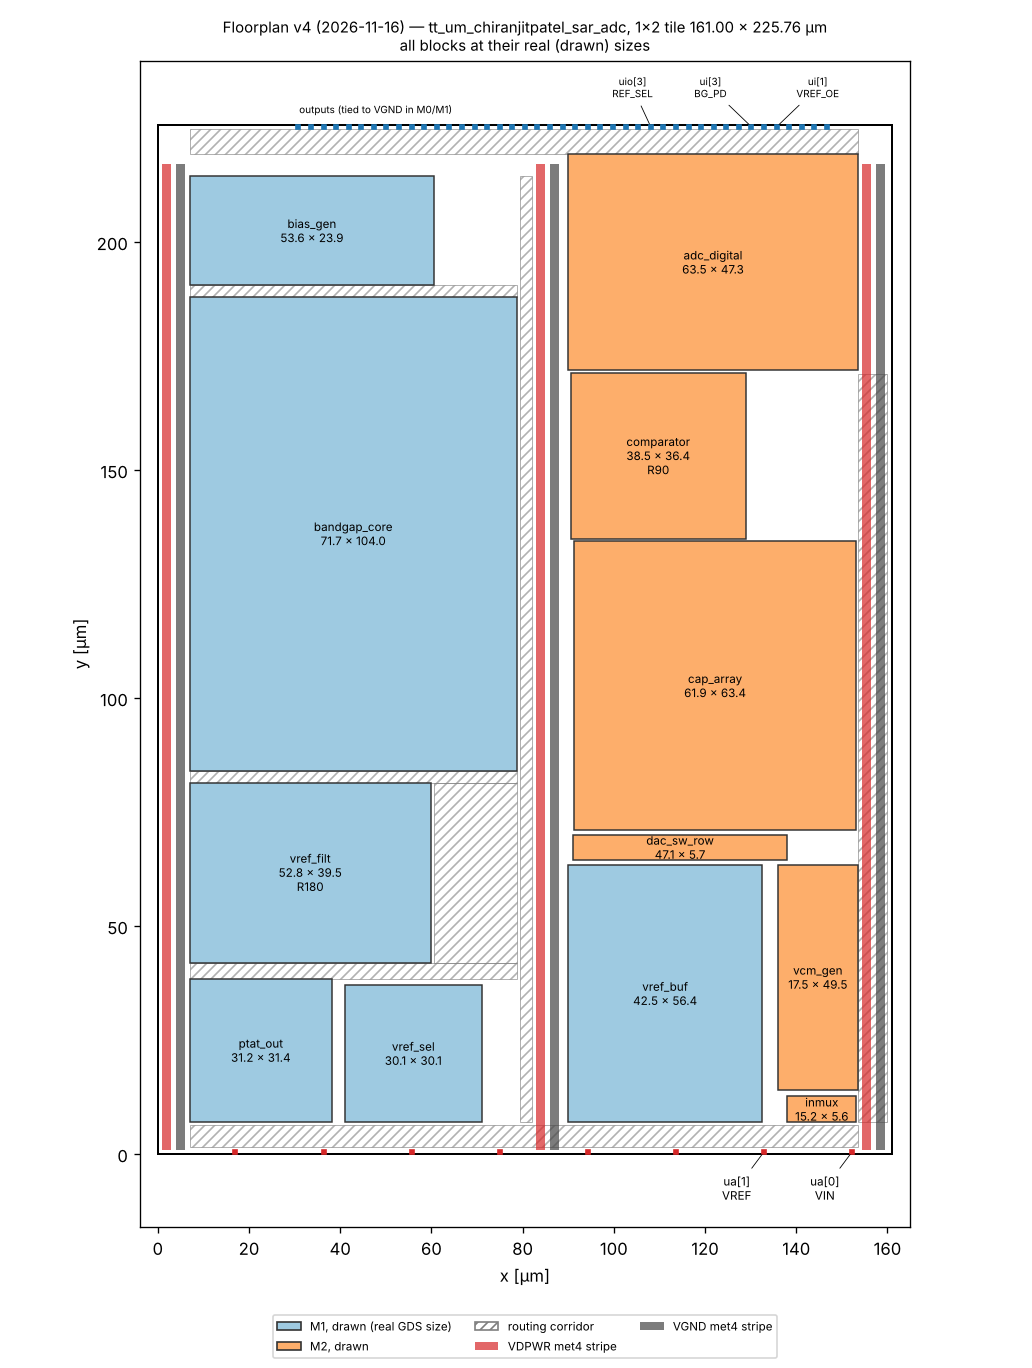
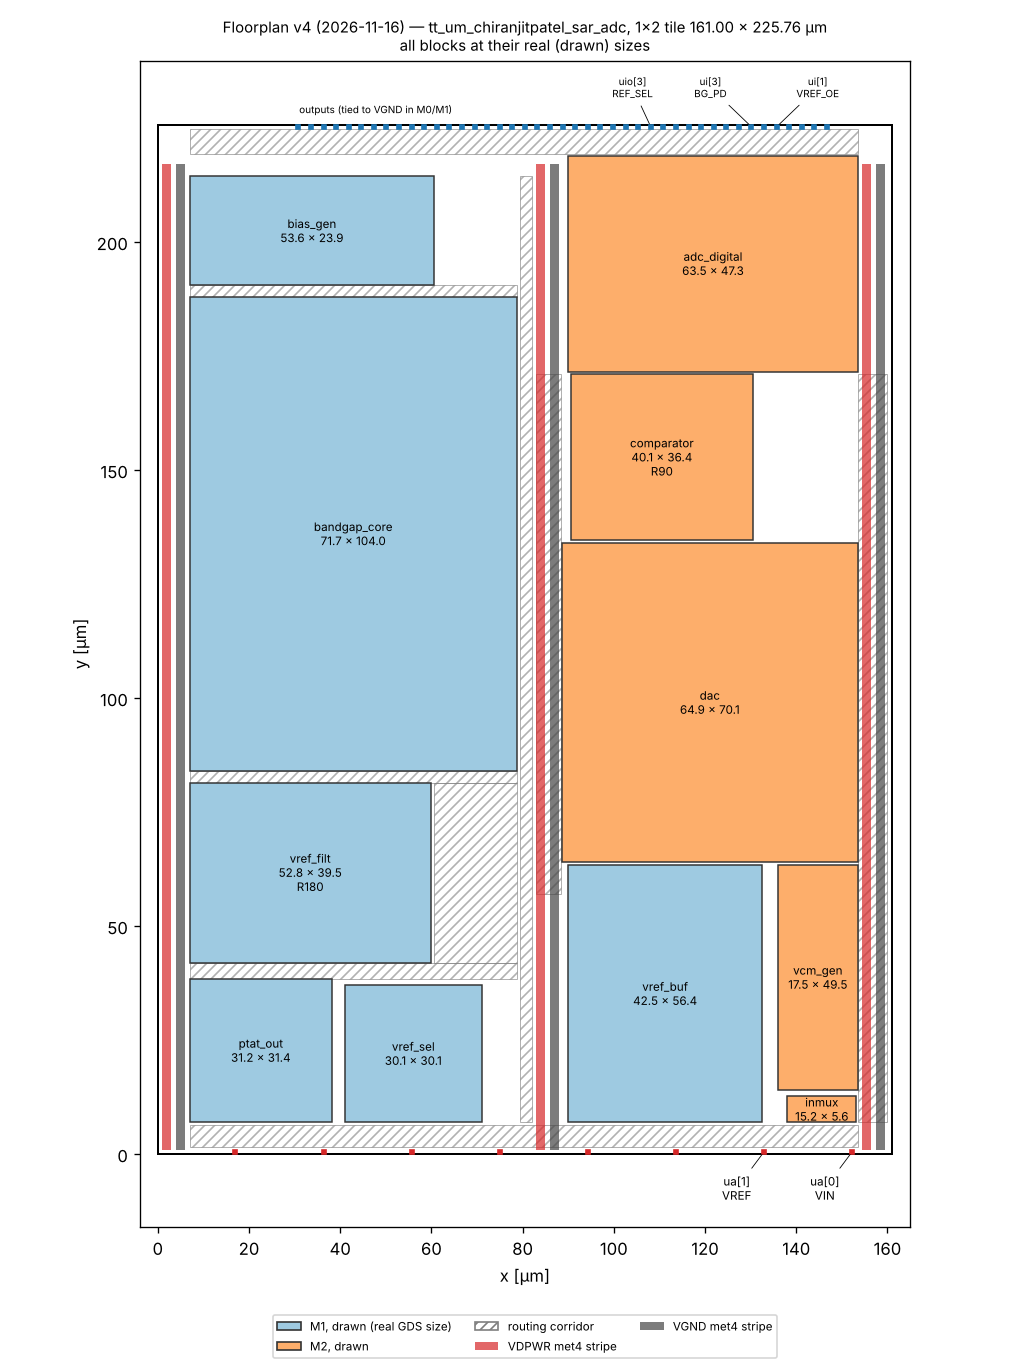
M2 integration prep: comparator buses split (digital away from inp/inn), floorplan v4 with the dac cell, routing plan
- comparator: opb/onb buses moved to the side of pbias/clkb/smpt, so only VDPWR, inp and
  inn sit next to each other (no digital bus beside the top plate). Still DRC/LVS clean.
- floorplan v4: dac at x 88.6 (0.6 um from the middle VGND stripe on met4), comparator and
  adc_digital re-placed; checks OK.
- docs/specs/layout_plan.md: the M2 routing plan (corridors, power, frame).

Claude-Session: https://claude.ai/code/session_018xb9mH8bN9u9RTJdbtix1L

Changed region(s): [[0.5271, 0.2456, 0.8372, 0.6447], [0.6512, 0.4912, 0.7132, 0.5219], [0.6512, 0.1842, 0.7132, 0.2149]]

diff --git a/layout/floorplan_v4.py b/layout/floorplan_v4.py
@@ -52,16 +52,16 @@ blocks = {
     "vref_buf":     (at("vref_buf", 90.0, 7.0), "M1", "drawn", "R0", "vref to vref_sel (bottom corridor) and up to dac_sw"),
     "inmux":        (at("inmux", 138.0, 7.0), "M2", "drawn", "R0", "VIN from ua[0] (x 152.3); vptat / vbg along the bottom"),
     "vcm_gen":      (at("vcm_gen", 136.0, 14.0), "M2", "drawn", "R0", "vcm up under the right stripes to the comparator"),
-    "dac_sw_row":   (at("dac_sw_row", 91.0, 64.4), "M2", "drawn", "R0", "9 bottom-plate switches; gn/gpb on met4 above"),
-    "cap_array":    (at("cap_array", 91.25, 71.0), "M2", "drawn", "R0", "16 x 16 + 2 dummy columns; buses at the bottom"),
-    "comparator":   (at("comparator", 90.5, 134.9, "R90"), "M2", "drawn", "R90", "right above the array's vtop exit"),
-    "adc_digital":  (at("adc_digital", 90.0, 171.9), "M2", "drawn", "R0", "LibreLane, 63.5 x 47.3"),
+    "dac":          (at("dac", 88.6, 64.0), "M2", "drawn", "R0", "16 x 16 MIM array + 9 bottom-plate switches (one cell); gn/gpb from met4 tracks under it"),
+    "comparator":   (at("comparator", 90.5, 134.6, "R90"), "M2", "drawn", "R90", "right above the array's vtop exit"),
+    "adc_digital":  (at("adc_digital", 90.0, 171.6), "M2", "drawn", "R0", "LibreLane, 63.5 x 47.3; power bars above it"),
 }
 corridors = {  # reserved for top-level routing
     "G1 bias/bandgap":     (7.0, 188.03, 78.7, 190.5),
     "G2 bandgap/vref_filt": (7.0, 81.46, 78.7, 84.0),
     "G3 vref_filt/bottom": (7.0, 38.44, 78.7, 42.0),
     "R1 left column, right edge": (79.5, 7.0, 82.0, 214.4),
+    "R4 under the middle stripes (gn/gpb high bits, west pins)": (83.0, 57.0, 88.4, 171.0),
     "R3 under the right stripes (vcm, en/enb, pbias)": (153.5, 7.0, 160.0, 171.0),
     "R2 beside vref_filt":  (60.5, 42.0, 78.7, 81.46),
     "B1 bottom (pads)":     (7.0, 1.6, 153.5, 6.4),
@@ -80,8 +80,8 @@ for i, n in enumerate(names):
         if ov(r, blocks[m][0]):
             problems.append(f"{n} overlaps {m}")
     for net, x0, x1 in stripes:
-        if ov(r, (x0, STRIPE_Y[0], x1, STRIPE_Y[1]), gap=1.0):
-            problems.append(f"stripe {net} at x = {x0} is within 1 um of {n}")
+        if ov(r, (x0, STRIPE_Y[0], x1, STRIPE_Y[1]), gap=0.5):
+            problems.append(f"stripe {net} at x = {x0} is within 0.5 um of {n}")
     for c, cr in corridors.items():
         if ov(r, cr):
             problems.append(f"corridor '{c}' overlaps {n}")

diff --git a/layout/gen_comparator.py b/layout/gen_comparator.py
@@ -11,7 +11,7 @@ Rotated short-L devices (both D and S on signal nets) go in the outer rows, wher
 the same side; the unrotated short-L ones go in the middle rows (gate down, D/S up).
 Matched pairs (MA1/MA2, M1/M2, M3/M4, M5/M6, MAL1/MAL2, MR1/MR2, MR3/MR4, inverters) are mirror-symmetric
 about the row centre. MTOP (top-plate switch vtop -> vcm) sits at the row end next to the inp/inn buses.
-Pins: pbias, clkb, smpt (left); inp (= vtop), inn (= vcm), opb, onb (right); VGND, VDPWR.
+Pins: pbias, clkb, smpt, opb, onb (left); inp (= vtop), inn (= vcm) (right: no digital bus next to them); VGND, VDPWR.
 Usage: python3 layout/gen_comparator.py && python3 layout/check_cell.py comparator
 """
 import os, sys
@@ -36,7 +36,7 @@ c.add_row([Dev("MIOP", P, 0.84, 0.15, D="opb", G="op", S="VDPWR"),
 c.add_row([Dev("M3", P, 2, 0.15, rot=270, D="op", G="on", S="xp")]
           + [Dev(f"MAT_{k}", PL, 2, 2, D="pts", G="pbias", S="VDPWR") for k in range(1, 5)]
           + [Dev("M4", P, 2, 0.15, rot=270, D="on", G="op", S="xn")], "VDPWR")
-c.build(pins_left=("pbias", "clkb", "smpt"), pins_right=("inp", "inn", "opb", "onb"), pack=True)
+c.build(pins_left=("pbias", "clkb", "smpt", "opb", "onb"), pins_right=("inp", "inn"), pack=True)   # digital buses away from inp/inn
 drc, errs, gds = c.write()
 for i, r in enumerate(c.rows):
     print(f"row {i}: x {r['x0']:.2f} .. {r['x1']:.2f}  y {r['y']:.2f} .. {r['top']:.2f}")

diff --git a/layout/m2_place.py b/layout/m2_place.py
@@ -25,7 +25,7 @@ DEF = os.path.join(ROOT, "layout", "tt_analog_1x2.def")
 OUT = os.path.join(ROOT, "sim", "out", "layout", "m2p")
 FP = json.load(open(os.path.join(ROOT, "layout", "floorplan_v4.json")))
 CELLS = ["bias_gen", "bandgap_core", "vref_filt", "ptat_out", "vref_sel", "vref_buf",
-         "inmux", "vcm_gen", "dac_sw_row", "cap_array", "comparator", "adc_digital"]
+         "inmux", "vcm_gen", "dac", "comparator", "adc_digital"]
 os.makedirs(OUT, exist_ok=True)
 for fn in os.listdir(OUT):                 # stale .mag files in Magic's working directory would be loaded
     if fn.endswith(".mag") or fn.endswith(".ext"):  # instead of the fresh cells (2026-11-14: hung at a prompt)

diff --git a/docs/specs/layout_plan.md b/docs/specs/layout_plan.md
@@ -143,3 +143,27 @@ integration, full-chip LVS, post-layout simulation.
   core in a 63 µm block; they are 1 row / 4 sites.
 - Result: route DRC 0, Magic DRC 0, KLayout DRC 0, LVS 0, antenna 0; setup slack +27.4 ns, hold +0.12 ns;
   2 max-slew warnings at ss/100 °C/1.6 V only.
+
+## M2 integration plan (2026-11-16, in progress)
+
+Floorplan v4 (`layout/floorplan_v4.py`, positions from the real cells; `layout/m2_place.py` builds a
+placement-only top and writes every pin's absolute position to `sim/out/layout/m2p/pins.json`).
+Right half, bottom to top: vref_buf (M1), vcm_gen (bottom right), `dac` (array + switches, 88.6-153.5 x
+64.0-134.05), comparator (rotated, 90.5-130.6 x 134.6-171.0), adc_digital (90.0-153.5 x 171.6-218.9).
+The only ways past the array are two corridors: R4 under the middle stripes (x 83-88.4, met2/met3 free)
+and R3 under the right stripes (x 153.75-160.7). Routing plan:
+- gn/gpb bits 7-4 (west pins) down R4 on met2, met3 jog right at y 56.8-62.4, met4 tracks under the dac
+  (over vref_buf, no met4 there; the nearest landing gets the highest track), met4 up to the dac's landing pads.
+- gn/gpb bits 3-0, smp, smpb, vin, vptat, vbg, vadc, vcm, pbias down R3 (all met2, ~16 lines at 0.43 pitch;
+  horizontals on met3/met4). vptat/vbg run along the very bottom (y 0.5, under the B1 lanes).
+- inmux moves to the free area right of the comparator (x 131-153, y 136-160), redrawn with its gate pads
+  on top (en/enb straight down from the digital south edge) and its inputs on the right.
+- comparator: vtop from the array's met4 spine onto the inp bus (bottom side), vcm onto inn (bottom right),
+  pbias/clkb/smpt/opb/onb (top side) short to the digital south pins.
+- power: digital straps extended to the block edges -> met3 bars above the block (VDPWR y 219.6, VGND
+  y 220.3) to the middle stripes (extended upward); the comparator and the new inmux from extended digital
+  straps; vcm_gen and vref_buf from the B1 ties; the dac from the middle stripes (stacks kept out of R4's lines).
+- frame: only the 16 constant outputs are tied (uio_oe[5:4] to VDPWR); eoc / cmp_out to uio_out[5:4];
+  the 27 north pins river-route to the TT pins above the power bars.
+- M1 control signals (BG_PD, VREF_OE, REF_SEL) now come from the digital west pins onto the R1 met4 lines;
+  bias_gen's pd is tied to VGND (vcm_gen needs the bias when BG_PD = 1).
